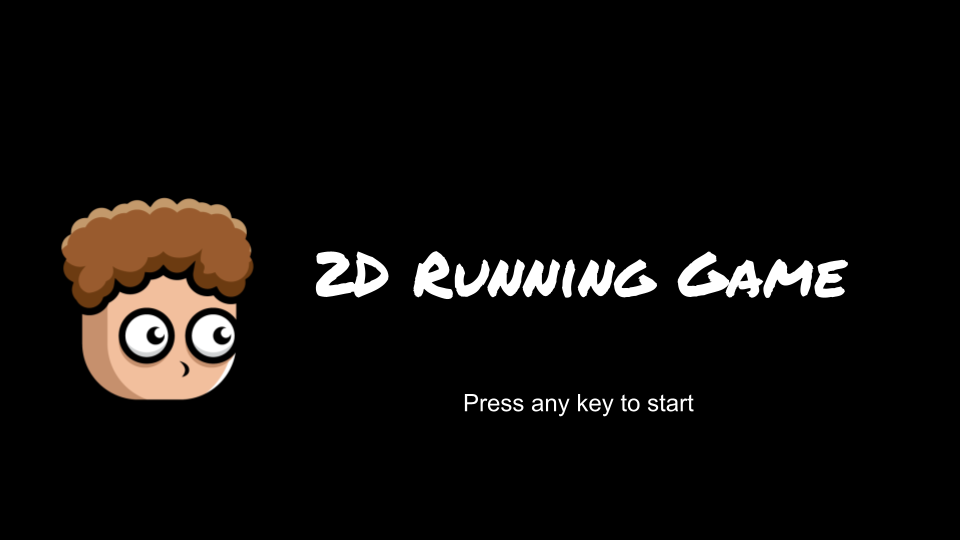
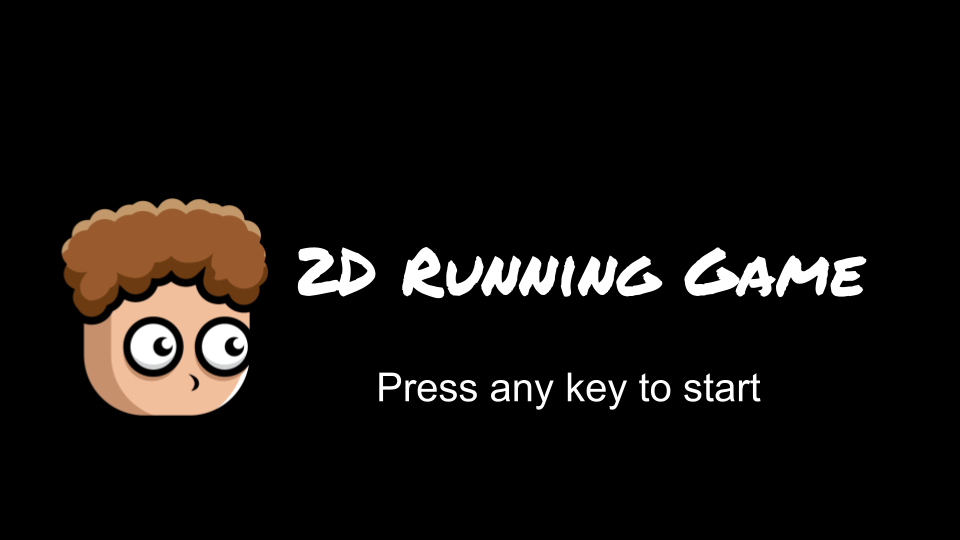
added coin get sound and fixed title screen

Changed region(s): [[0.0625, 0.3556, 0.2812, 0.7704], [0.3125, 0.4444, 0.9062, 0.563], [0.375, 0.6815, 0.8125, 0.7704]]

diff --git a/running_game.py b/running_game.py
@@ -27,8 +27,17 @@ pygame.mixer.init()
 
 # Load and play background music
 pygame.mixer.music.load("music/running-game-music.mp3")  # Replace with your actual file name
-pygame.mixer.music.set_volume(0.5)  # Adjust volume (0.0 to 1.0)
+pygame.mixer.music.set_volume(0.6)  # Adjust volume (0.0 to 1.0)
 pygame.mixer.music.play(-1)  # Loop indefinitely
+
+# Load coin sound effect
+coin_sound = pygame.mixer.Sound("music/coin-get.mp3")
+coin_sound.set_volume(0.3)  # Lower the volume of the coin sound
+
+# Function to play coin sound
+def play_coin_sound():
+    pygame.mixer.music.set_volume(0.5)
+    coin_sound.play()
 
 # Screen setup
 SCREEN_WIDTH, SCREEN_HEIGHT = 900, 500
@@ -242,6 +251,7 @@ def game_loop(player_name):
     # Load platform image
     platform_image = pygame.image.load("images/platform.png").convert_alpha()
     platform_image = pygame.transform.scale(platform_image, (SCREEN_WIDTH, 50))  # Adjust height if needed
+
     # Initial positions for scrolling platforms
     platform_x1, platform_x2 = 0, SCREEN_WIDTH
 
@@ -326,12 +336,14 @@ def game_loop(player_name):
             score += 100
             update_score_in_db(player_name, score)
             sparkles.add(Sparkle(player.rect.centerx, player.rect.top, 50, 50))
+            play_coin_sound()
             
         if pygame.sprite.spritecollide(player, super_coins, True):
             score += 500
             # Bigger sparkle
             update_score_in_db(player_name, score)
             sparkles.add(Sparkle(player.rect.centerx, player.rect.top, 60, 60))
+            play_coin_sound()
 
         if respawn_timer > 0:
             respawn_timer -= 1
@@ -364,6 +376,7 @@ def game_loop(player_name):
 
         clock.tick(60) # Cap the frame rate
 
+    pygame.mixer.music.stop() # Stops music
     game_over_screen(screen, font, large_font)
 
 # Main game flow
